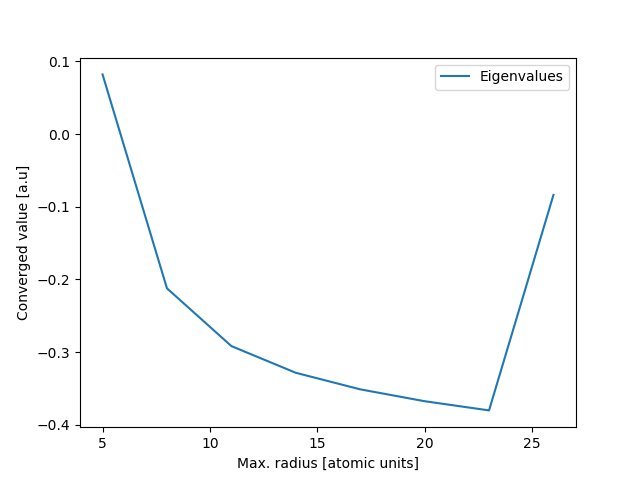
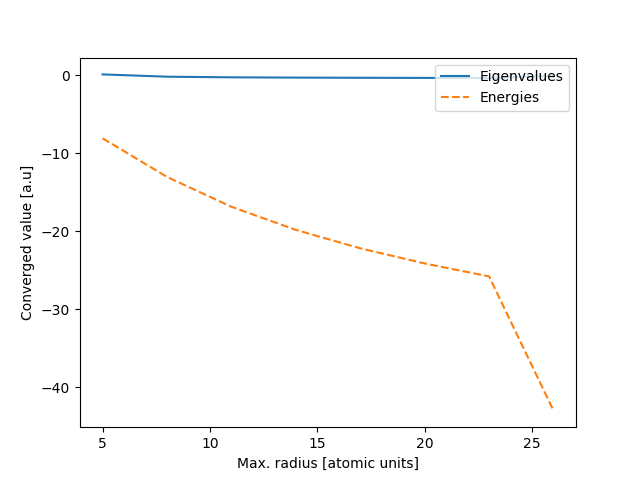
fsd

diff --git a/HA3/HA3_4.py b/HA3/HA3_4.py
@@ -70,7 +70,12 @@ def main():
     ax_potential.legend(loc=1)
     plt.savefig('eigAndEn.eps')
     plt.savefig('eigAndEn.png')
-    # plt.show()
+
+    fig_2 = plt.figure()
+    ax_potential2 = fig_2.add_subplot(111)
+    ax_potential2.plot(r, phi_s_H, label='Eigenvalues')
+
+    plt.show()
 
     ''' Write data to file '''
     print(eps_vec)
